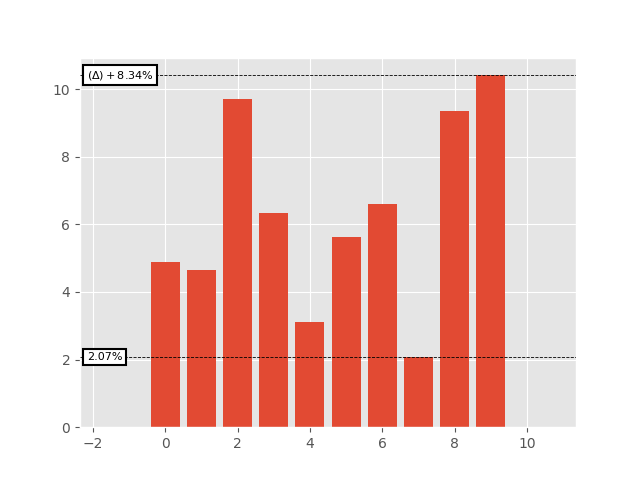
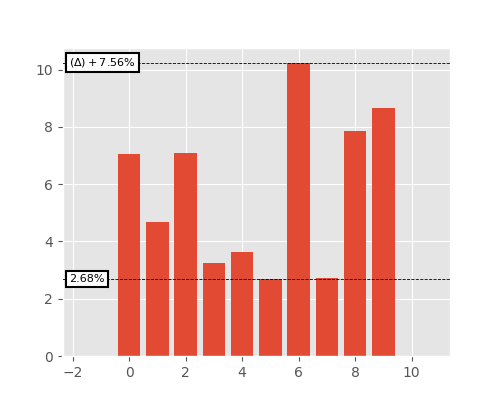
fix figure size in readme

diff --git a/examples/axis_markers.py b/examples/axis_markers.py
@@ -4,7 +4,7 @@ import matplotlib.pyplot as plt
 
 plt.style.use("ggplot")
 
-fig, ax = plt.subplots(1, 1)
+fig, ax = plt.subplots(1, 1, figsize=(5, 4))
 y1 = np.random.normal(6, 3, size=10)
 ax.bar(np.arange(10), y1)
 ax.margins(x=0.2)
